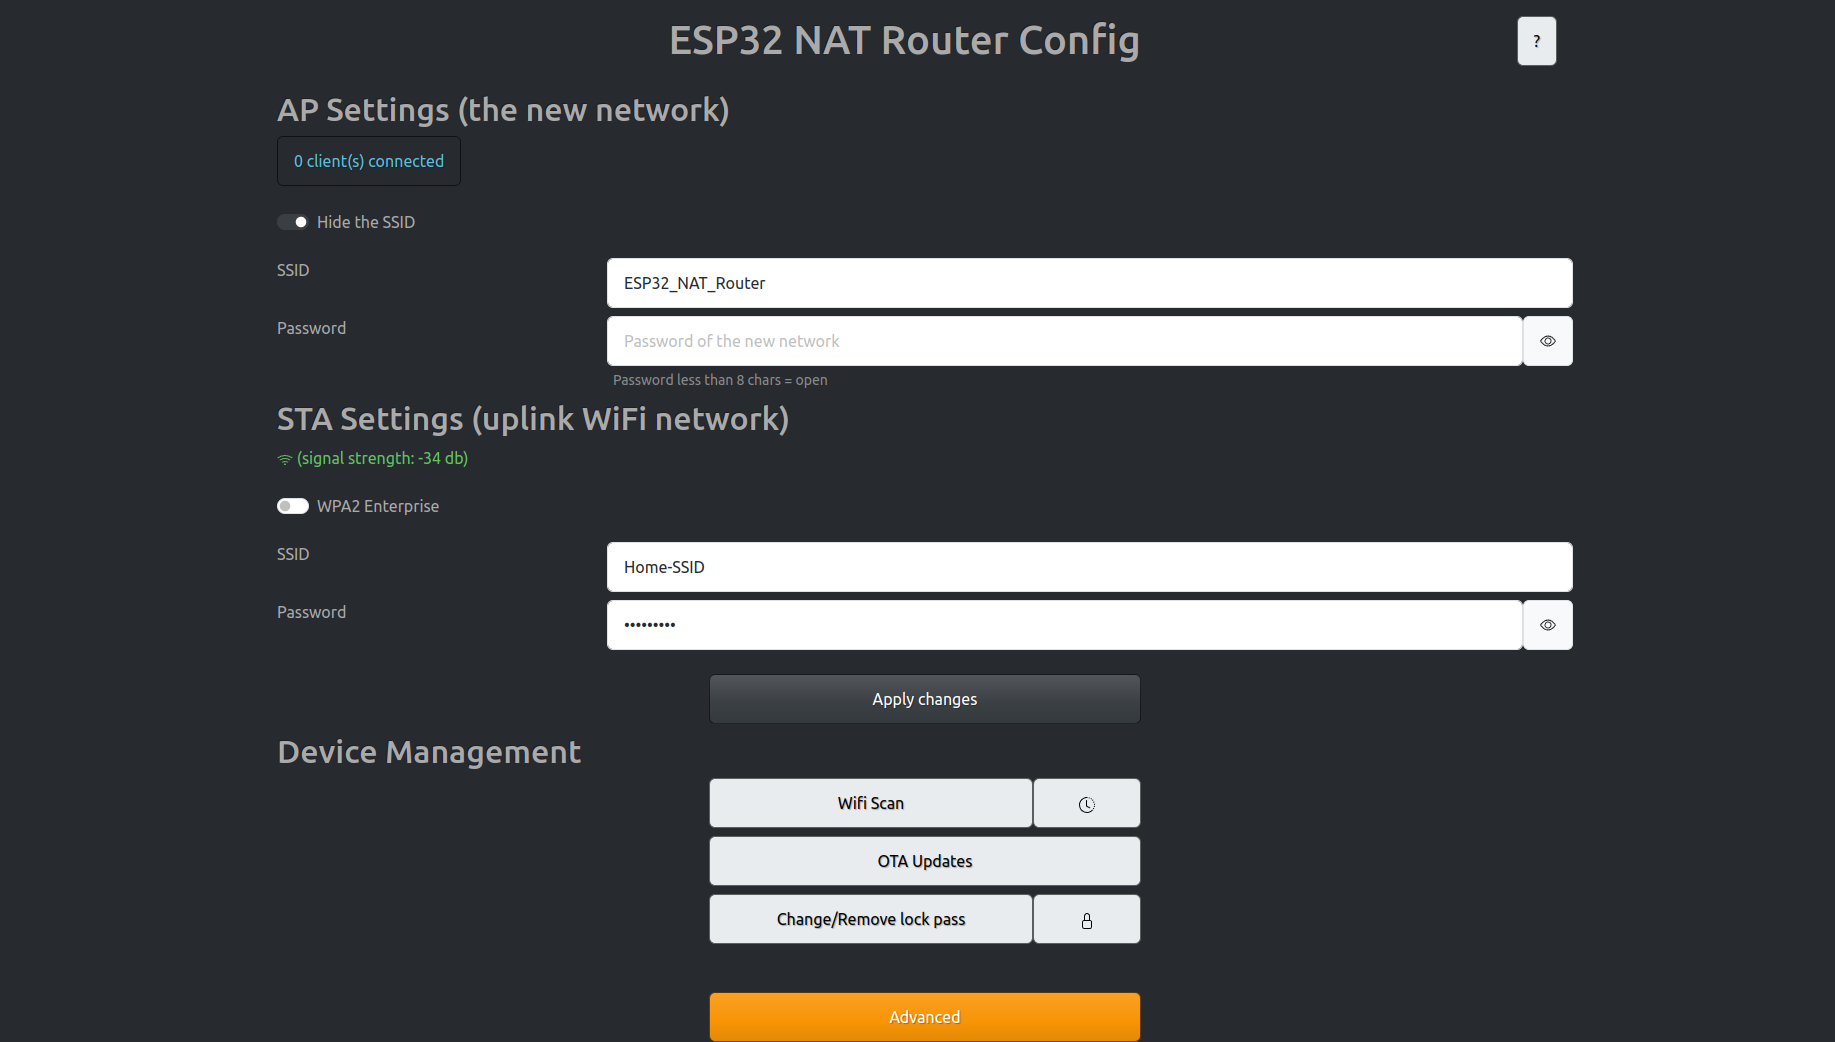
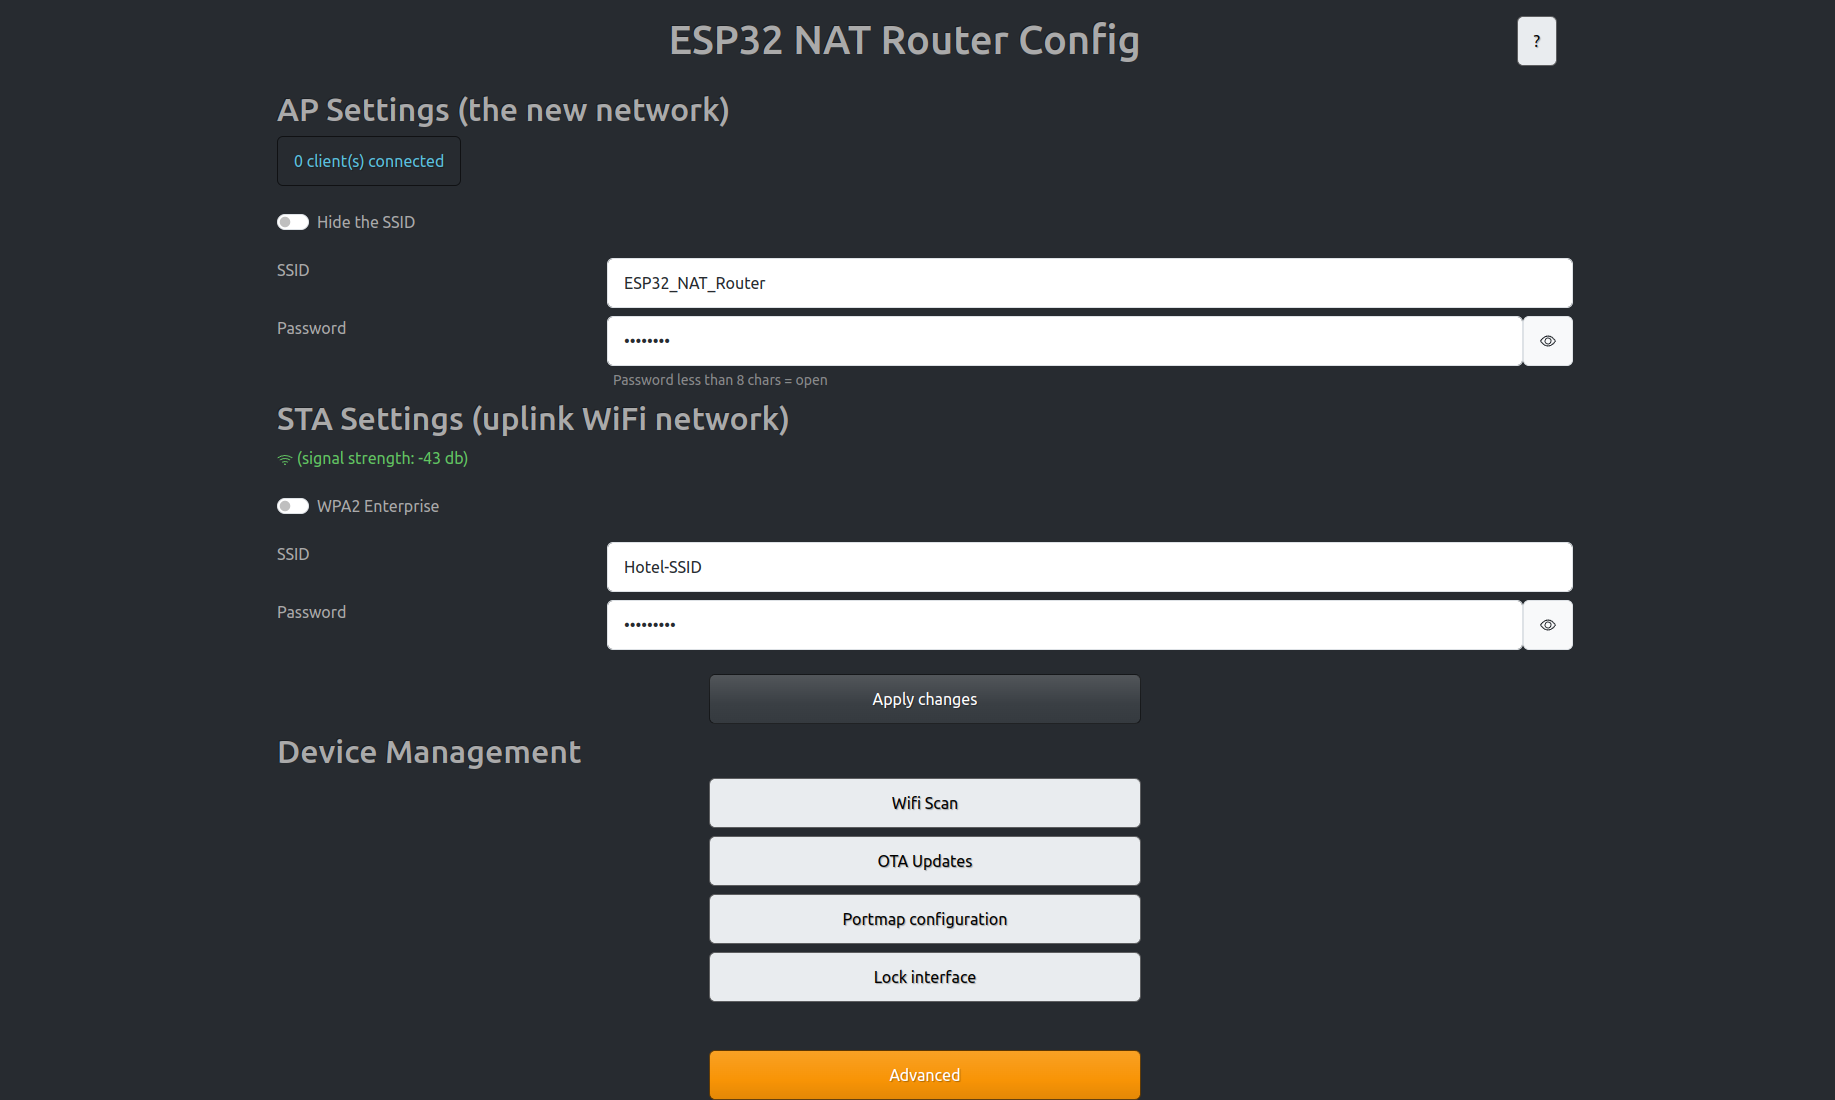
Check for linebrak on version file

diff --git a/src/pages/portmap_end.html b/src/pages/portmap_end.html
@@ -46,14 +46,18 @@
             <li>Protocol: TCP</li>
             <li>External port: 8080 (The port that is exposed externally)</li>
             <li>Internal IP: The IP assigned by the ESP32 to the device, i.e. 192.168.4.2 </li>
-            <li>Internal port: 80 (The port that is only known within the ESP32 network and on which the web server on the endpoint device is running)</li>
+            <li>Internal port: 80 (The port that is only known within the ESP32 network and on which the web
+                server on the endpoint device is running)</li>
         </ul>
         Port 80 is now exposed as port 8080 on the ESP32, accessible
         via the ESP32's public IP (e.g., 192.168.178.20). So the webserver is available at
         http://192.168.178.20:8080
     </div>
 </form>
-<div class="form-group row col-4 offset-4 mt-4"> <a href=/apply class="btn btn-primary">Apply changes</a> </div>
+<form action=apply class=p-2 method=POST>
+    <div class="form-group row col-4 offset-4 mt-4"> <input class="btn btn-primary" type=submit value="Apply changes">
+    </div>
+</form>
 <div class="form-group row col-4 offset-4 mt-5"> <a href=/ class="btn btn-light">Back</a> </div>
 </div>
 </body>

diff --git a/src/pages/portmap_start.html b/src/pages/portmap_start.html
@@ -37,3 +37,4 @@
                 </tr>
             </thead>
             <tbody class=text-center>
+

diff --git a/src/urihandler/applyhandler.c b/src/urihandler/applyhandler.c
@@ -398,7 +398,7 @@ esp_err_t apply_post_handler(httpd_req_t *req)
     {
         applyAdvancedConfig(content);
     }
-    restartByTimer();
+    restartByTimerinS(1);
 
     return apply_get_handler(req);
 }

diff --git a/README.md b/README.md
@@ -37,6 +37,7 @@ Now you can reconnect and reload the page and change the "Soft AP Settings". Cli
 ![image](docs/scan.png)
 ![image](docs/enterprise_wifi.png)
 ![image](docs/advanced.png)
+![image](docs/portmap.png)
 ![image](docs/reset.png)
 ![image](docs/lock.png)
 ![image](docs/ota.png)
